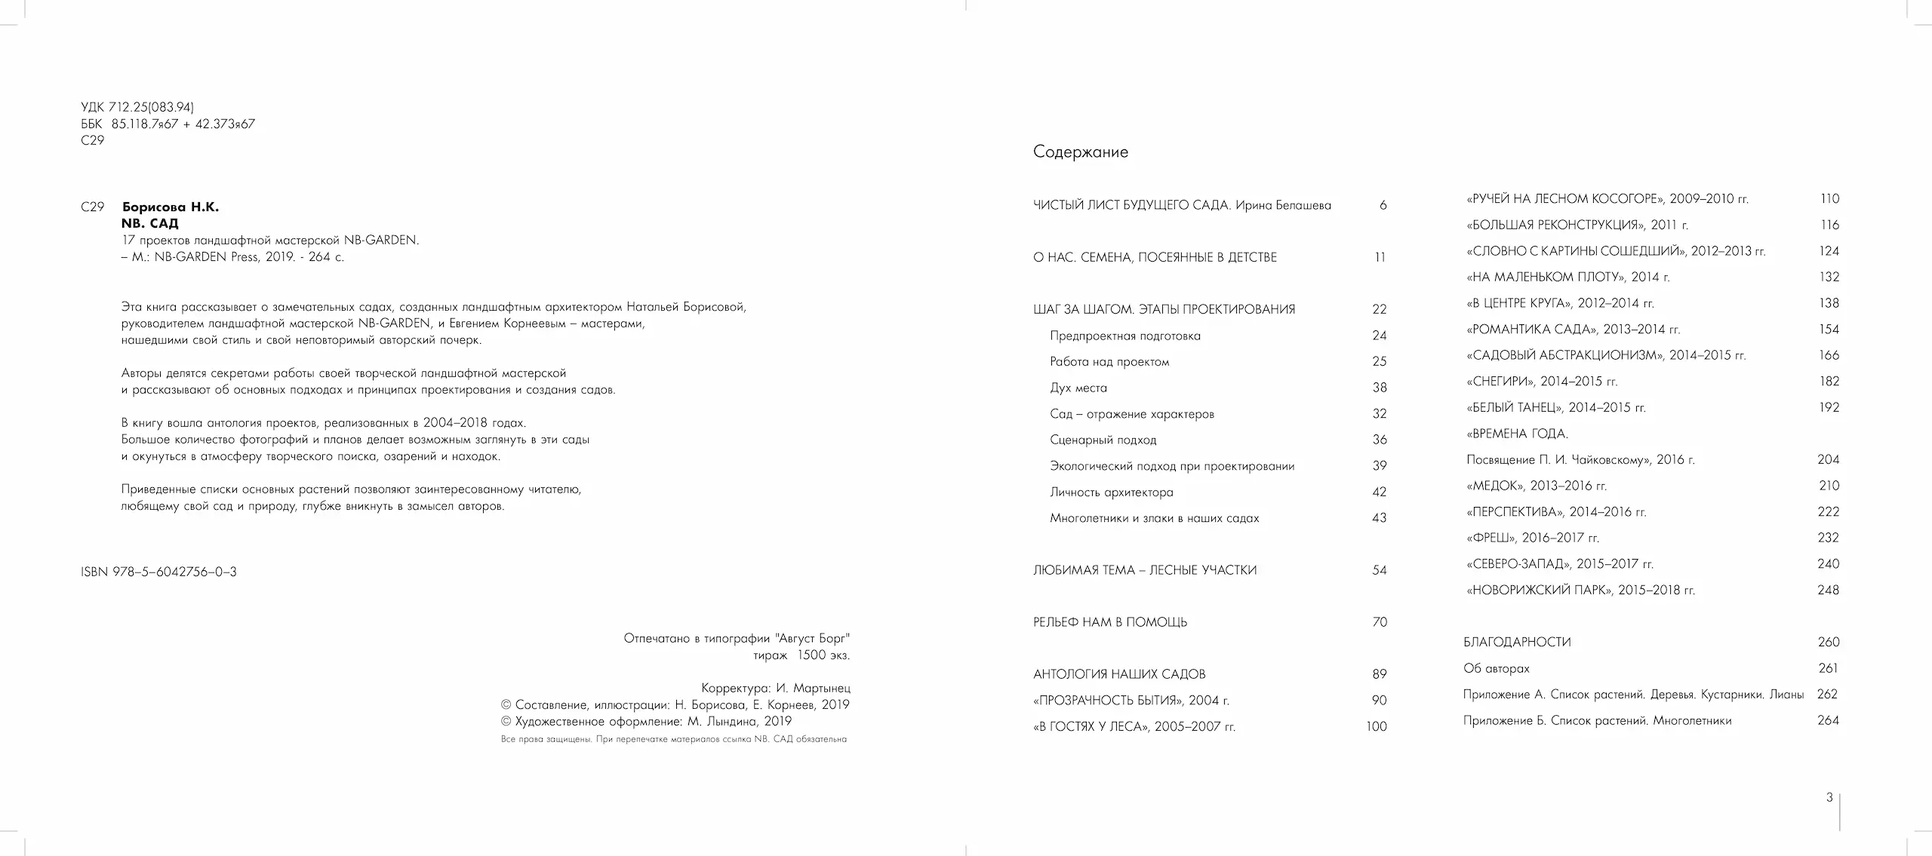
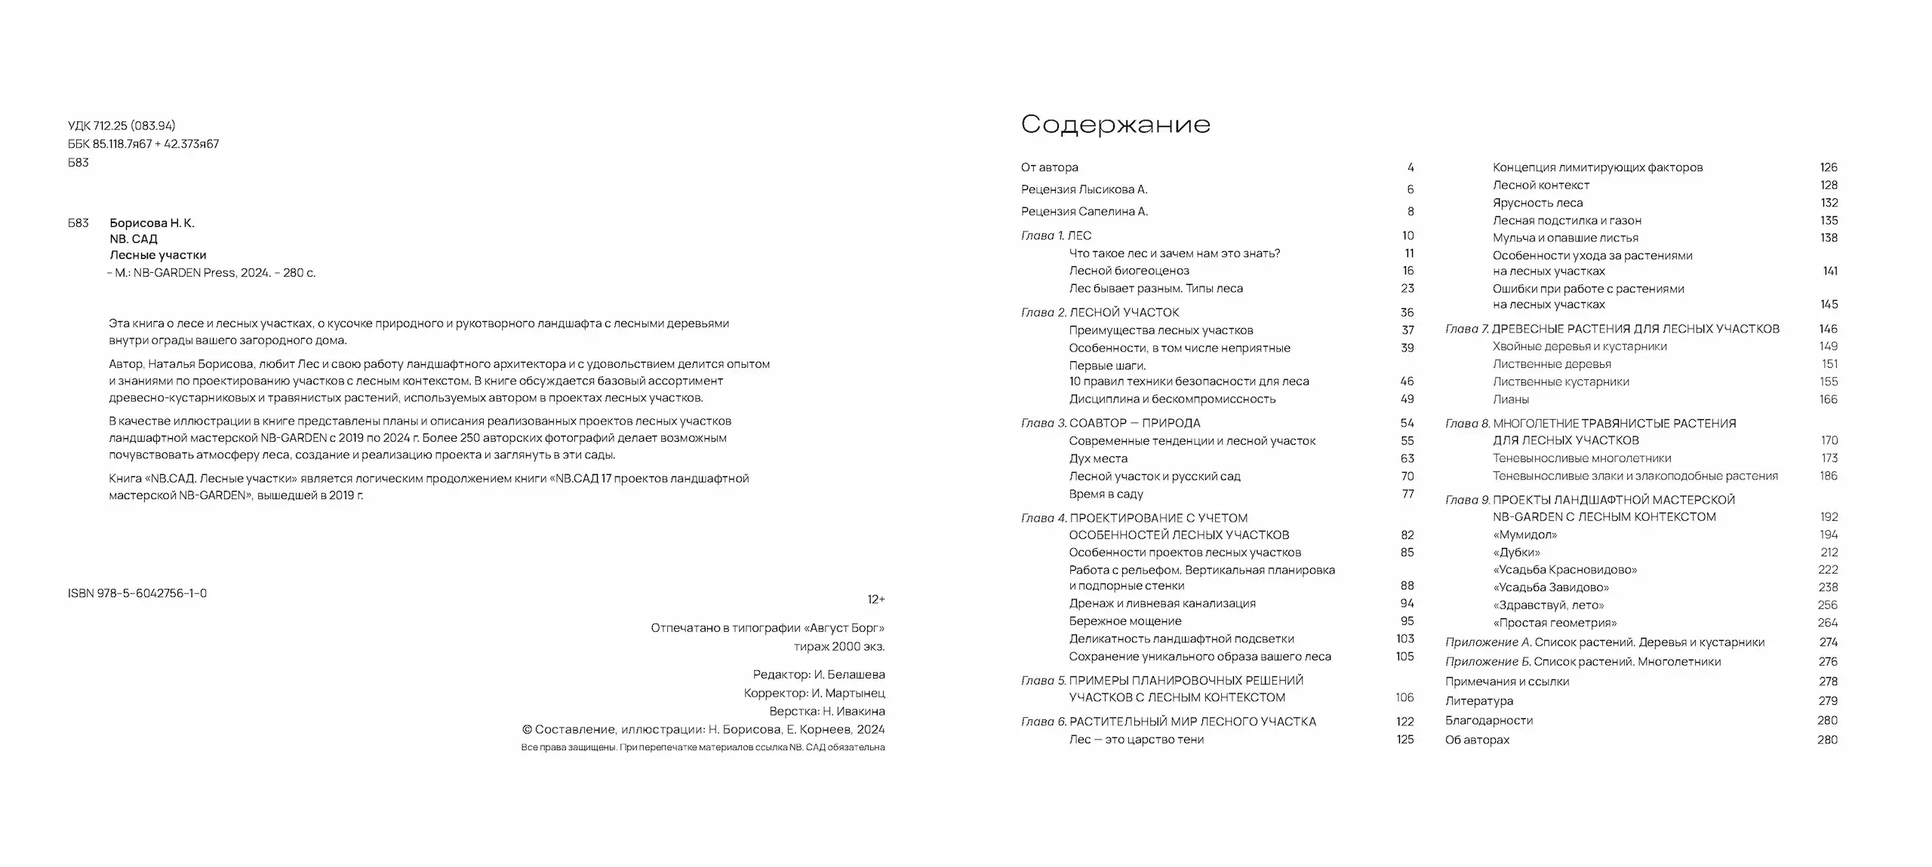
change fragments

diff --git a/src/utils/constants.jsx b/src/utils/constants.jsx
@@ -1,15 +1,9 @@
-import mobile1 from "../images/1.webp";
-import mobile2 from "../images/2.webp";
-import mobile28 from "../images/28.webp";
-import mobile29 from "../images/29.webp";
-import mobile32 from "../images/32.webp";
-import mobile33 from "../images/33.webp";
-import mobile36 from "../images/36.webp";
-import mobile37 from "../images/37.webp";
-import mobile90 from "../images/90.webp";
-import mobile91 from "../images/91.webp";
-import mobile232 from "../images/232.webp";
-import mobile233 from "../images/233.webp";
+// import mobile1 from "../images/1.webp";
+// import mobile2 from "../images/2.webp";
+import mobile88 from "../images/88.webp";
+import mobile89 from "../images/89.webp";
+import mobile256 from "../images/256.webp";
+import mobile257 from "../images/257.webp";
 import page1 from "../images/page_1.webp";
 import page2 from "../images/page_2.webp";
 import page3 from "../images/page_3.webp";
@@ -22,66 +16,66 @@ import review3 from "../images/review_3.webp";
 import review4 from "../images/review_4.webp";
 
 export const fragmentMobile = [
-  {
-    id: 1,
-    image: mobile1,
-    alt: "fragment of book",
-  },
-  {
-    id: 2,
-    image: mobile2,
-    alt: "fragment of book",
-  },
+  // {
+  //   id: 1,
+  //   image: mobile1,
+  //   alt: "fragment of book",
+  // },
+  // {
+  //   id: 2,
+  //   image: mobile2,
+  //   alt: "fragment of book",
+  // },
   {
     id: 3,
-    image: mobile28,
+    image: mobile88,
     alt: "fragment of book",
   },
   {
     id: 4,
-    image: mobile29,
+    image: mobile89,
     alt: "fragment of book",
   },
   {
     id: 5,
-    image: mobile32,
+    image: mobile256,
     alt: "fragment of book",
   },
   {
     id: 6,
-    image: mobile33,
+    image: mobile257,
     alt: "fragment of book",
   },
-  {
-    id: 7,
-    image: mobile36,
-    alt: "fragment of book",
-  },
-  {
-    id: 8,
-    image: mobile37,
-    alt: "fragment of book",
-  },
-  {
-    id: 9,
-    image: mobile90,
-    alt: "fragment of book",
-  },
-  {
-    id: 10,
-    image: mobile91,
-    alt: "fragment of book",
-  },
-  {
-    id: 11,
-    image: mobile232,
-    alt: "fragment of book",
-  },
-  {
-    id: 12,
-    image: mobile233,
-    alt: "fragment of book",
-  },
+  // {
+  //   id: 7,
+  //   image: mobile36,
+  //   alt: "fragment of book",
+  // },
+  // {
+  //   id: 8,
+  //   image: mobile37,
+  //   alt: "fragment of book",
+  // },
+  // {
+  //   id: 9,
+  //   image: mobile90,
+  //   alt: "fragment of book",
+  // },
+  // {
+  //   id: 10,
+  //   image: mobile91,
+  //   alt: "fragment of book",
+  // },
+  // {
+  //   id: 11,
+  //   image: mobile232,
+  //   alt: "fragment of book",
+  // },
+  // {
+  //   id: 12,
+  //   image: mobile233,
+  //   alt: "fragment of book",
+  // },
 ];
 
 export const fragmentDesktop = [
@@ -120,11 +114,11 @@ export const fragmentDesktop = [
 export const reviewsData = [
   {
     id: 1,
-    name: "Денис Баташев",
+    name: "Андрей Лысиков",
     position:
-      'Кандидат биологических наук, руководитель Ландшафтной студии "Ботаник"',
+      "к.б.н., старший научный сотрудник Института лесоведения РАН,член Союза фотохудожников России",
     description:
-      "Если бы меня попросили привести пример современного качественного дизайна русского сада, я бы отправил Вас смотреть сады, созданные Натальей Борисовой. Они необыкновенно легкие в восприятии и прочтении, в них нет ничего показушного и нефункционального, они воздушны, строги и геометричны. Личность автора, необыкновенной женщины, всегда наполненной позитивной энергией, отражается в них, нигде не выпячиваясь, не навязывая себя. В садах Наташи Борисовой, этого удивительного человека, всегда находящегося в поиске (для немедленного воплощения) современных дизайнерских тенденций, чувствуешь себя легко и умиротворенно. Написанная ею книга хоть и посвящена ее пути в профессии, может стать хорошим путеводителем по дебрям современного ландшафтного дизайна. И я был счастлив стать одним из первых читателей и критиков этой замечательной работы коллеги и друга.",
+      "Замечательный писатель и знаток русской природы Михаил Пришвин когда-то написал: «Тропинка в лесу — это самая интересная книга, которую мне в жизни только приходилось читать». Очень верные слова! Ведь лес — это не только про деревья, лес — это комплексное природное сообщество, целый мир со сложными взаимосвязями растений и грибов, зверей и птиц, насекомых, микроорганизмов и почв. А еще это особенные ощущения, особые запахи и звуки, визуальное наслаждение, которое мы получаем от общения с ним в любую пору. С лесом, с его изучением, так или иначе, связана почти вся моя сознательная жизнь, поэтому мне было особенно приятно и интересно познакомиться с новой книгой замечательного ландшафтного мастера Натальи Борисовой, посвященной устройству садов на лесных участках.",
   },
   {
     id: 2,
@@ -132,7 +126,7 @@ export const reviewsData = [
     position:
       "Дендролог, ландшафтный архитектор, преподаватель Московского государственного университета леса, автор множества статей и книг по вопросам ландшафтного дизайна и озеленения",
     description:
-      "Если читатель видит эти строки, то это значит, что он держит в руках замечательную первую книжку от NB-Garden. Мне посчастливилось прочесть ее одним из первых в стадии рукописи, и я бы сравнивал это с исповедью. Честно и без прикрас обо всем и о себе. А могло ли быть по-другому, если это Наташа Борисова? Нет, не могло.",
+      "У вас в руках книга Н. Борисовой «Лесные участки». Объект ЛА, как частный, так и общественный, в лесу — это совсем не редкость для нашей лесной страны. Принцип «не навреди» при любой работе с ландшафтом не менее важен, чем в медицине, откуда он пришел. Но особенно это актуально именно применительно к лесу. Лес сложнейшая система, с миллионом взаимосвязей, где исключение некоторых звеньев цепочек, может привести к краху системы в целом. «Странно, копали там, а умерло здесь» — часто можно услышать не только от заказчиков, а и от коллег. Да, все так, и более чем реально. Одним словом «Лесоведение». ",
   },
   {
     id: 3,

diff --git a/src/components/About/About.jsx b/src/components/About/About.jsx
@@ -10,29 +10,30 @@ const About = () => {
         <h1 className="about__title">О Книге</h1>
         <div className="about__wrapper">
           <div className="about__block">
-            <img className="about__image" src={image1} alt="image of garden" />
-
             <p className="about__text">
-              Эта книга рассказывает о замечательных садах, созданных
-              ландшафтным архитектором Натальей Борисовой, руководителем
-              ландшафтной мастерской NB-GARDEN, и Евгением Корнеевым –
-              мастерами, нашедшими свой стиль и свой неповторимый авторский
-              почерк. Авторы делятся секретами работы своей творческой
-              ландшафтной мастерской и рассказывают об основных подходах и
-              принципах проектирования и создания садов.
+              Эта книга о лесе и лесных участках, о кусочке природного и
+              рукотворного ландшафта с лесными деревьями внутри ограды вашего
+              загородного дома. Автор, Наталья Борисова, любит Лес и свою работу
+              ландшафтного архитектора и с удовольствием делится опытом и
+              знаниями по проектированию участков с лесным контекстом. В книге
+              обсуждается базовый ассортимент древесно-кустарниковых и
+              травянистых растений, используемых автором в проектах лесных
+              участков.
             </p>
+            <img className="about__image" src={image1} alt="image of garden" />
           </div>
 
           <div className="about__block">
-            <p className="about__text">
-              В книгу вошла антология проектов, реализованных в 2004–2018 годах.
-              Большое количество фотографий и планов делает возможным заглянуть
-              в эти сады и окунуться в атмосферу творческого поиска, озарений и
-              находок. Приведенные списки основных растений позволяют
-              заинтересованному читателю, любящему свой сад и природу, глубже
-              вникнуть в замысел авторов.
-            </p>
             <img className="about__image" src={image2} alt="image of garden" />
+            <p className="about__text">
+              В качестве иллюстрации в книге представлены планы и описания
+              реализованных проектов лесных участков ландшафтной мастерской
+              NB-GARDEN с 2019 по 2024 г. Более 250 авторских фотографий делает
+              возможным почувствовать атмосферу леса, создание и реализацию
+              проекта и заглянуть в эти сады. Книга «NB.САД. Лесные участки»
+              является логическим продолжением книги «NB.САД 17 проектов
+              ландшафтной мастерской NB-GARDEN», вышедшей в 2019 г.
+            </p>
           </div>
         </div>
       </div>

diff --git a/src/components/Policy/Policy.jsx b/src/components/Policy/Policy.jsx
@@ -8,20 +8,32 @@ const Policy = ({ isOpen }) => {
       <div className="policy__container">
         <h1 className="policy__title">Политика Продаж</h1>
         <p className="policy__description">
-          Дорогие читатели! <br />
-          <br />
-          К сожалению, первая книга полностью распродана.
-          <br /> Однако не стоит расстраиваться! Уже в августе 2024 года вас
-          ждет долгожданная вторая часть.
-          <br /> Переходите на сайт и будьте первыми, кто узнает о поступлении
-          новых книг!
+          Мы предлагаем возможность оптовой покупки от 6 книг. <br />
+          Для оформления заказа, пожалуйста, заполните форму ниже. <br /> Мы
+          свяжется с вами в кратчайшие сроки для у точнения деталей.
         </p>
         <button className="policy__button" onClick={isOpen}>
           заказать
         </button>
+        <p className="policy__text">
+          Если вас интересует розничная покупка, вы можете обратиться к нашим
+          партнерам <br />
+          по адресу:
+          <br />
+          <a className="policy__link" href="https://grifbook.ru/contacts">
+            grifbook.ru
+          </a>
+          <br /> АРХ ЛАВКА Москва, ул. Рождественка, д. 11
+        </p>
         <img
           loading="lazy"
           className="policy__image"
+          src={book}
+          alt="image of the book"
+        />
+        <img
+          loading="lazy"
+          className="policy__image1"
           src={book}
           alt="image of the book"
         />

diff --git a/src/components/Policy/Policy.css b/src/components/Policy/Policy.css
@@ -10,6 +10,13 @@
   position: relative;
   max-width: 1245px;
   margin: 0 auto;
+  background-color: #5c635a;
+  border-radius: 45px;
+  padding: 40px;
+  display: flex;
+  flex-direction: column;
+  align-items: center;
+  justify-content: center;
 }
 
 .policy__title {
@@ -26,15 +33,29 @@
   font-weight: normal;
   font-size: 21px;
   color: #f0f1e9;
-  padding-top: 60px;
-  margin: 0;
-  line-height: 25px;
+  padding-top: 20px;
+  max-width: 900px;
+  text-align: center;
+  margin: 0 auto;
+  line-height: 35px;
+}
+
+.policy__text {
+  font-family: "Involve", sans-serif;
+  font-weight: normal;
+  font-size: 21px;
+  color: #f0f1e9;
+  padding-top: 20px;
+  max-width: 900px;
+  text-align: center;
+  margin: 0 auto;
+  line-height: 35px;
 }
 
 .policy__button {
   background-color: rgba(216, 216, 216, 0.25);
   padding: 22px 24px;
-  margin-top: 60px;
+  margin-top: 20px;
   border: 3px solid rgb(216, 216, 216, 0.25);
   border-radius: 17px;
   color: #fff;
@@ -68,14 +89,31 @@
 }
 
 .policy__image {
-  max-width: 535px;
-  max-height: 350px;
+  max-width: 600px;
+  /* max-height: 350px; */
   width: 100%;
   opacity: 30%;
   filter: drop-shadow(-10px 12px 5px rgba(0, 0, 0, 0.5));
   position: absolute;
-  top: 30px;
-  right: 0;
+  right: 30px;
+}
+.policy__image1 {
+  max-width: 600px;
+  /* max-height: 350px; */
+  width: 100%;
+  opacity: 30%;
+  filter: drop-shadow(-10px 12px 5px rgba(0, 0, 0, 0.5));
+  position: absolute;
+  left: 35px;
+}
+
+.policy__link {
+  color: #f0f1e9;
+  transition: 0.2s ease;
+}
+
+.policy__link:hover {
+  opacity: 0.7;
 }
 
 @media screen and (max-width: 1150px) {

diff --git a/src/components/Navigation /Navigation.jsx b/src/components/Navigation /Navigation.jsx
@@ -46,9 +46,9 @@ const Navigation = () => {
             <li>
               <button
                 className="nav__link"
-                onClick={() => handleOpenMenu("fragments")}
+                onClick={() => handleOpenMenu("reviews")}
               >
-                ФРАГМЕНТЫ И ОТЗЫВЫ
+                РЕЦЕНЗИИ И ОТЗЫВЫ
               </button>
             </li>
             <li>
@@ -99,7 +99,7 @@ const Navigation = () => {
 
         <div
           className={`nav__btn ${openMenu ? "nav__btn-active" : ""}`}
-          onClick={handleOpenMenu}
+          onClick={() => setOpenMenu(!openMenu)}
         >
           {openMenu ? (
             <ion-icon name="close-outline"></ion-icon>

diff --git a/src/components/Reviews/Reviews.jsx b/src/components/Reviews/Reviews.jsx
@@ -9,8 +9,9 @@ import "swiper/css/pagination";
 
 const Reviews = () => {
   return (
-    <div className="reviews">
+    <div className="reviews" id="reviews">
       <section className="reviews__container">
+        <h1 className="reviews__title">РЕЦЕНЗИИ И ОТЗЫВЫ</h1>
         <Swiper
           modules={[Navigation, Pagination]}
           loop={true}

diff --git a/src/components/Fragment/Fragment.jsx b/src/components/Fragment/Fragment.jsx
@@ -19,7 +19,7 @@ const Fragments = ({ handleOpen }) => {
   const stretch = isMobile ? 90 : 400;
 
   return (
-    <div className="fragment" id="fragments">
+    <div className="fragment">
       <div className="fragment__container">
         <h1 className="fragment__title">ФРАГМЕНТЫ</h1>
         <Swiper

diff --git a/src/components/Reviews/Reviews.css b/src/components/Reviews/Reviews.css
@@ -12,6 +12,14 @@
   z-index: 10;
 }
 
+.reviews__title {
+  font-family: "Micra", sans-serif;
+  font-weight: normal;
+  font-size: 35px;
+  color: #222;
+  margin: 0;
+}
+
 .swiper-wrapper {
   padding: 40px 0 40px;
 }

diff --git a/src/components/Navigation /Navigation.css b/src/components/Navigation /Navigation.css
@@ -49,6 +49,7 @@
   text-decoration: none;
   letter-spacing: 1px;
   transition: 0.3s ease;
+  cursor: pointer;
 }
 
 .nav__link:hover {
